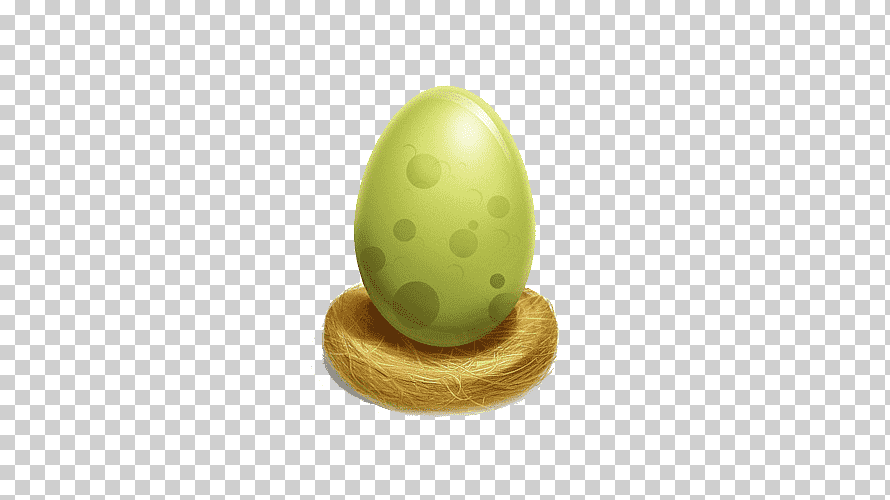
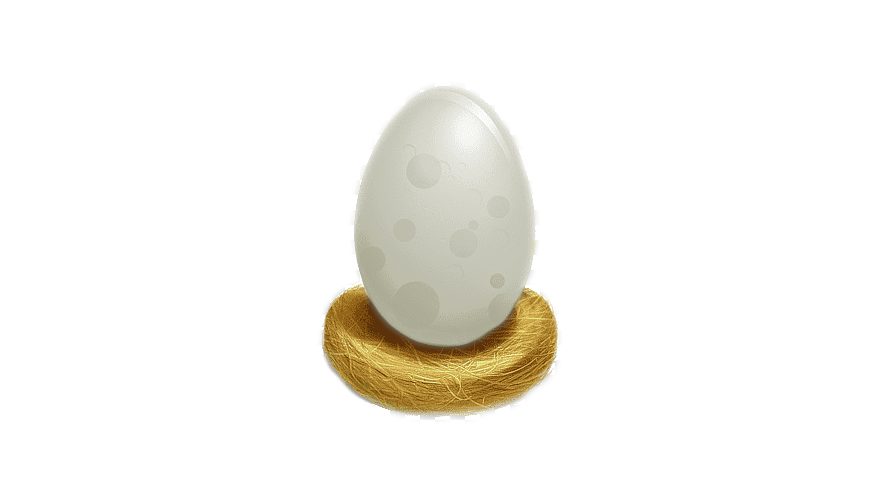
eggs randomly displayed

diff --git a/js/index.js b/js/index.js
@@ -5,6 +5,23 @@ window.onload = () => {
 
     const background = new Background(ctx);
     const car = new Car(ctx, canvas.width / 2 - 80, canvas.height / 2 - 50)
+    let eggsArray = []
+
+    let eggId = null
+
+    eggId = setInterval(function () {
+        let egg = new Egg(
+            ctx,
+            Math.floor(Math.random() * (canvas.width - 80)),
+            Math.floor(Math.random() * (canvas.height - 60))
+        )
+        eggsArray.push(egg)
+    }, 2000)
+
+
+
+
+
 
     function gameLoop() {
         frameId = requestAnimationFrame(gameLoop);
@@ -15,6 +32,10 @@ window.onload = () => {
 
         background.draw();
         car.draw()
+
+        eggsArray.forEach((eachEgg) => {
+            eachEgg.draw()
+        })
 
 
     }
@@ -27,17 +48,17 @@ window.onload = () => {
         switch (event.keyCode) {
 
             case 37:
-                if (car.x > 0) car.x -= 15;
+                if (car.x > 0) car.x -= 1;
                 break;
 
             case 39:
-                if (car.x < canvas.width - car.width) car.x += 15;
+                if (car.x < canvas.width - car.width) car.x += 1;
                 break;
             case 38:
-                if (car.y > 0) car.y -= 15;
+                if (car.y > 0) car.y -= 1;
                 break;
             case 40:
-                if (car.y < canvas.height - car.height) car.y += 15;
+                if (car.y < canvas.height - car.height) car.y += 1;
                 break;
 
             default:

diff --git a/js/egg.js b/js/egg.js
@@ -1,0 +1,16 @@
+const eggImg = document.createElement('img')
+eggImg.src = '/images/egg.png'
+
+class Egg {
+    constructor(canvasContext, posX, posY, width, height) {
+        this.ctx = canvasContext;
+        this.image = eggImg;
+        this.x = posX;
+        this.y = posY;
+        this.width = 100;
+        this.height = 60
+    }
+    draw() {
+        this.ctx.drawImage(eggImg, this.x, this.y, this.width, this.height)
+    }
+}
